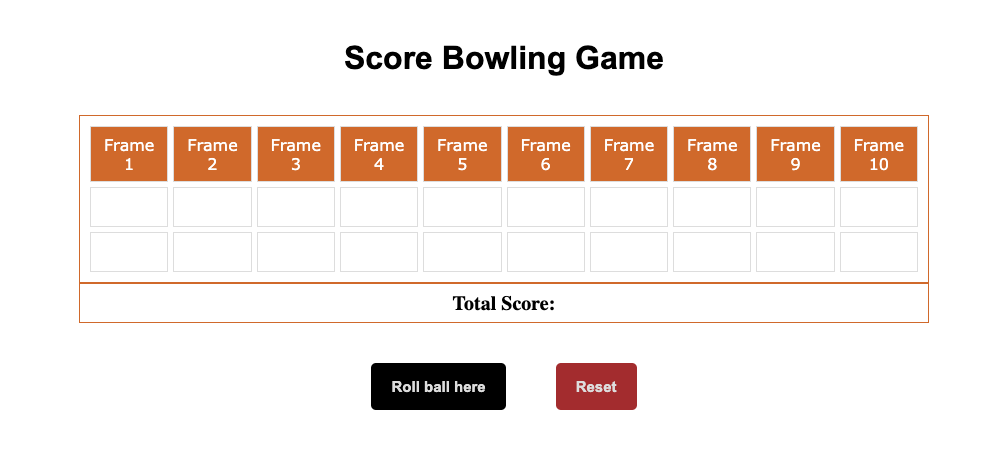
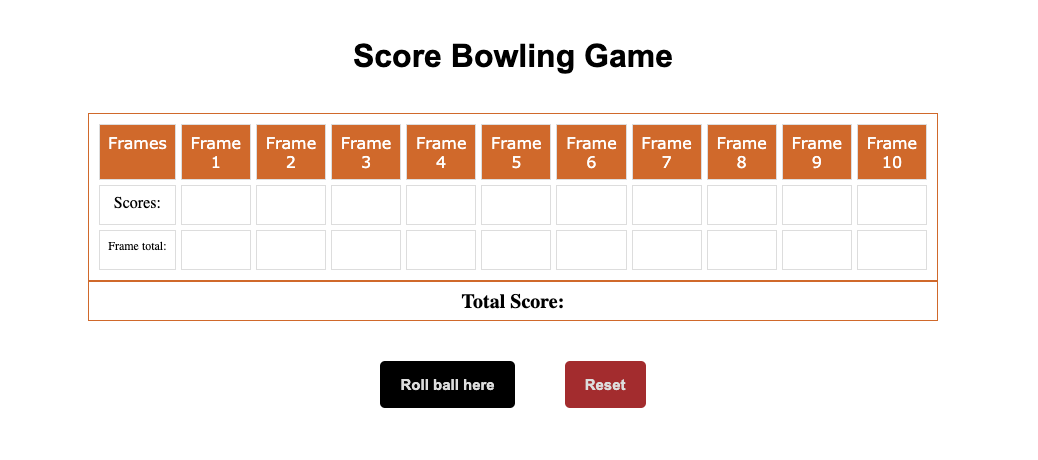
done some changes

Changed region(s): [[0.0616, 0.2435, 0.9235, 0.7], [0.3386, 0.7609, 0.6465, 0.913], [0.3386, 0.0913, 0.6773, 0.1826]]

diff --git a/assets/scripts/script.js b/assets/scripts/script.js
@@ -25,31 +25,31 @@ const rollBall = () => {
     totalScore[0].innerHTML = totalHits
   } else if (count === 20) {
     score[1].innerHTML = `${pinsHitFirst}, ${pinsHitSecond}`
-    totalScore[1].innerHTML = totalScores
+    totalScore[1].innerHTML = totalHits
   } else if (count === 30) {
     score[2].innerHTML = `${pinsHitFirst}, ${pinsHitSecond}`
-    totalScore[2].innerHTML = totalScores
+    totalScore[2].innerHTML = totalHits
   } else if (count === 40) {
     score[3].innerHTML = `${pinsHitFirst}, ${pinsHitSecond}`
-    totalScore[3].innerHTML = totalScores
+    totalScore[3].innerHTML = totalHits
   } else if (count === 50) {
     score[4].innerHTML = `${pinsHitFirst}, ${pinsHitSecond}`
-    totalScore[4].innerHTML = totalScores
+    totalScore[4].innerHTML = totalHits
   } else if (count === 60) {
     score[5].innerHTML = `${pinsHitFirst}, ${pinsHitSecond}`
-    totalScore[5].innerHTML = totalScores
+    totalScore[5].innerHTML = totalHits
   } else if (count === 70) {
     score[6].innerHTML = `${pinsHitFirst}, ${pinsHitSecond}`
-    totalScore[6].innerHTML = totalScores
+    totalScore[6].innerHTML = totalHits
   } else if (count === 80) {
     score[7].innerHTML = `${pinsHitFirst}, ${pinsHitSecond}`
-    totalScore[7].innerHTML = totalScores
+    totalScore[7].innerHTML = totalHits
   } else if (count === 90) {
     score[8].innerHTML = `${pinsHitFirst}, ${pinsHitSecond}`
-    totalScore[8].innerHTML = totalScores
+    totalScore[8].innerHTML = totalHits
   } else if (count === 100) {
     score[9].innerHTML = `${pinsHitFirst}, ${pinsHitSecond}`
-    totalScore[9].innerHTML = totalScores
+    totalScore[9].innerHTML = totalHits
     finalScore.innerHTML = `Total Score: ${totalScores}`
   } else {
     loading.innerHTML = 'You have exceeded the number of frames'

diff --git a/index.html b/index.html
@@ -13,8 +13,9 @@
         <p class="loading">Rolling...</p>
         <div class="table">
 
-            <!-- Row one -->
-
+          <!-- Row one -->
+          
+          <span class="table-header">Frames</span>
           <span class="table-header">Frame 1</span>
           <span class="table-header">Frame 2</span>
           <span class="table-header">Frame 3</span>
@@ -26,8 +27,9 @@
           <span class="table-header">Frame 9</span>
           <span class="table-header">Frame 10</span>
 
-            <!-- Row two -->
+          <!-- Row two -->
 
+          <span>Scores:</span>
           <span class="score 1"></span>
           <span class="score 2"></span>
           <span class="score 3"></span>
@@ -39,8 +41,9 @@
           <span class="score 9"></span>
           <span class="score 10"></span>
 
-            <!-- Row three -->
+          <!-- Row three -->
 
+          <span class="total">Frame total:</span>
           <span class="total-score 1"></span>
           <span class="total-score 2"></span>
           <span class="total-score 3"></span>
@@ -55,7 +58,7 @@
         <table>
           <tr>
             <th class="result">Total Score:</th>
-        </tr>
+          </tr>
         </table>
         <div class="container1">
           <button class="btn">Roll ball here</button>

diff --git a/assets/styles/style.css b/assets/styles/style.css
@@ -15,8 +15,8 @@ h1 {
 }
 
 .loading {
-  color: transparent;
-  margin: 0 0 20px;
+  margin: 10px auto;
+  visibility: hidden;
 }
 
 .loading.active {
@@ -37,7 +37,7 @@ table {
   border: 1px solid #d2691e;
   display: grid;
   gap: 5px;
-  grid-template-columns: repeat(10, 1fr);
+  grid-template-columns: repeat(11, 1fr);
   padding: 10px;
   width: 100%;
 }
@@ -55,6 +55,10 @@ table {
   color: #fff;
   font-family: Verdana, Geneva, Tahoma, sans-serif;
   text-align: center;
+}
+
+.total {
+  font-size: 12px;
 }
 
 .container {

diff --git a/README.md b/README.md
@@ -1,7 +1,7 @@
 # Scoring a Bowling Game
 The game consists of 10 frames. A frame is composed of one or two ball throws with 10 pins standing at frame initialization.
 ## App
-![rotator](assets/image/score.png)
+![bowling](assets/image/score.png)
 ### Built with  
 - HTML
 - CSS
@@ -15,7 +15,7 @@ knowlegde about:
 ## Clone project
 Get a local copy of this project by following the steps below:
 - clone this repository with `https://github.com/Nathanael-Lontsi/scorebowling`
-- Move to the project directory by typing the following: cd JavaScript and cd grid-rotator in your terminal.
+- Move to the project directory by typing the following: cd JavaScript and cd scorebowling in your terminal.
 ## Steps
 - $ git clone `https://github.com/Nathanael-Lontsi/scorebowling`
 - $ `cd scorebowling`
